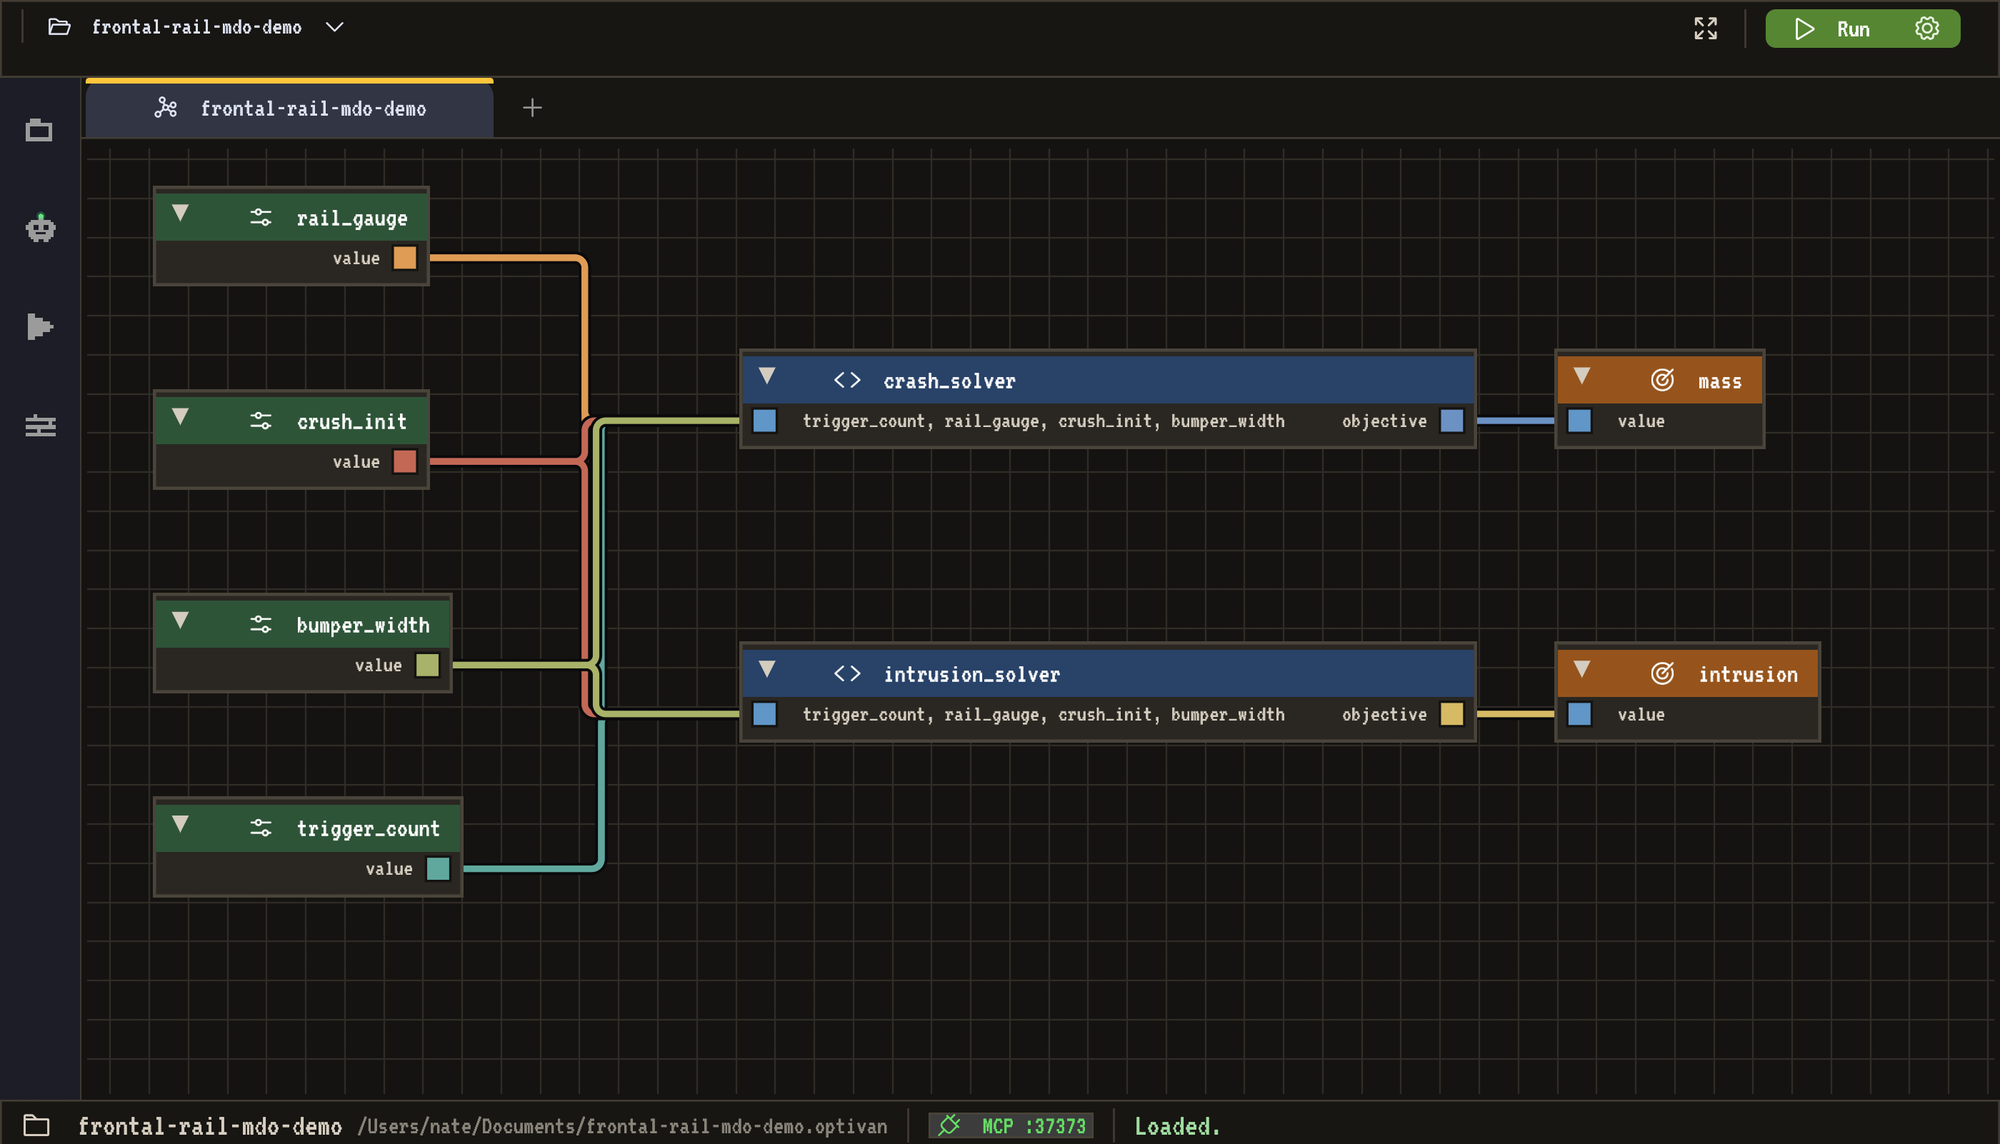
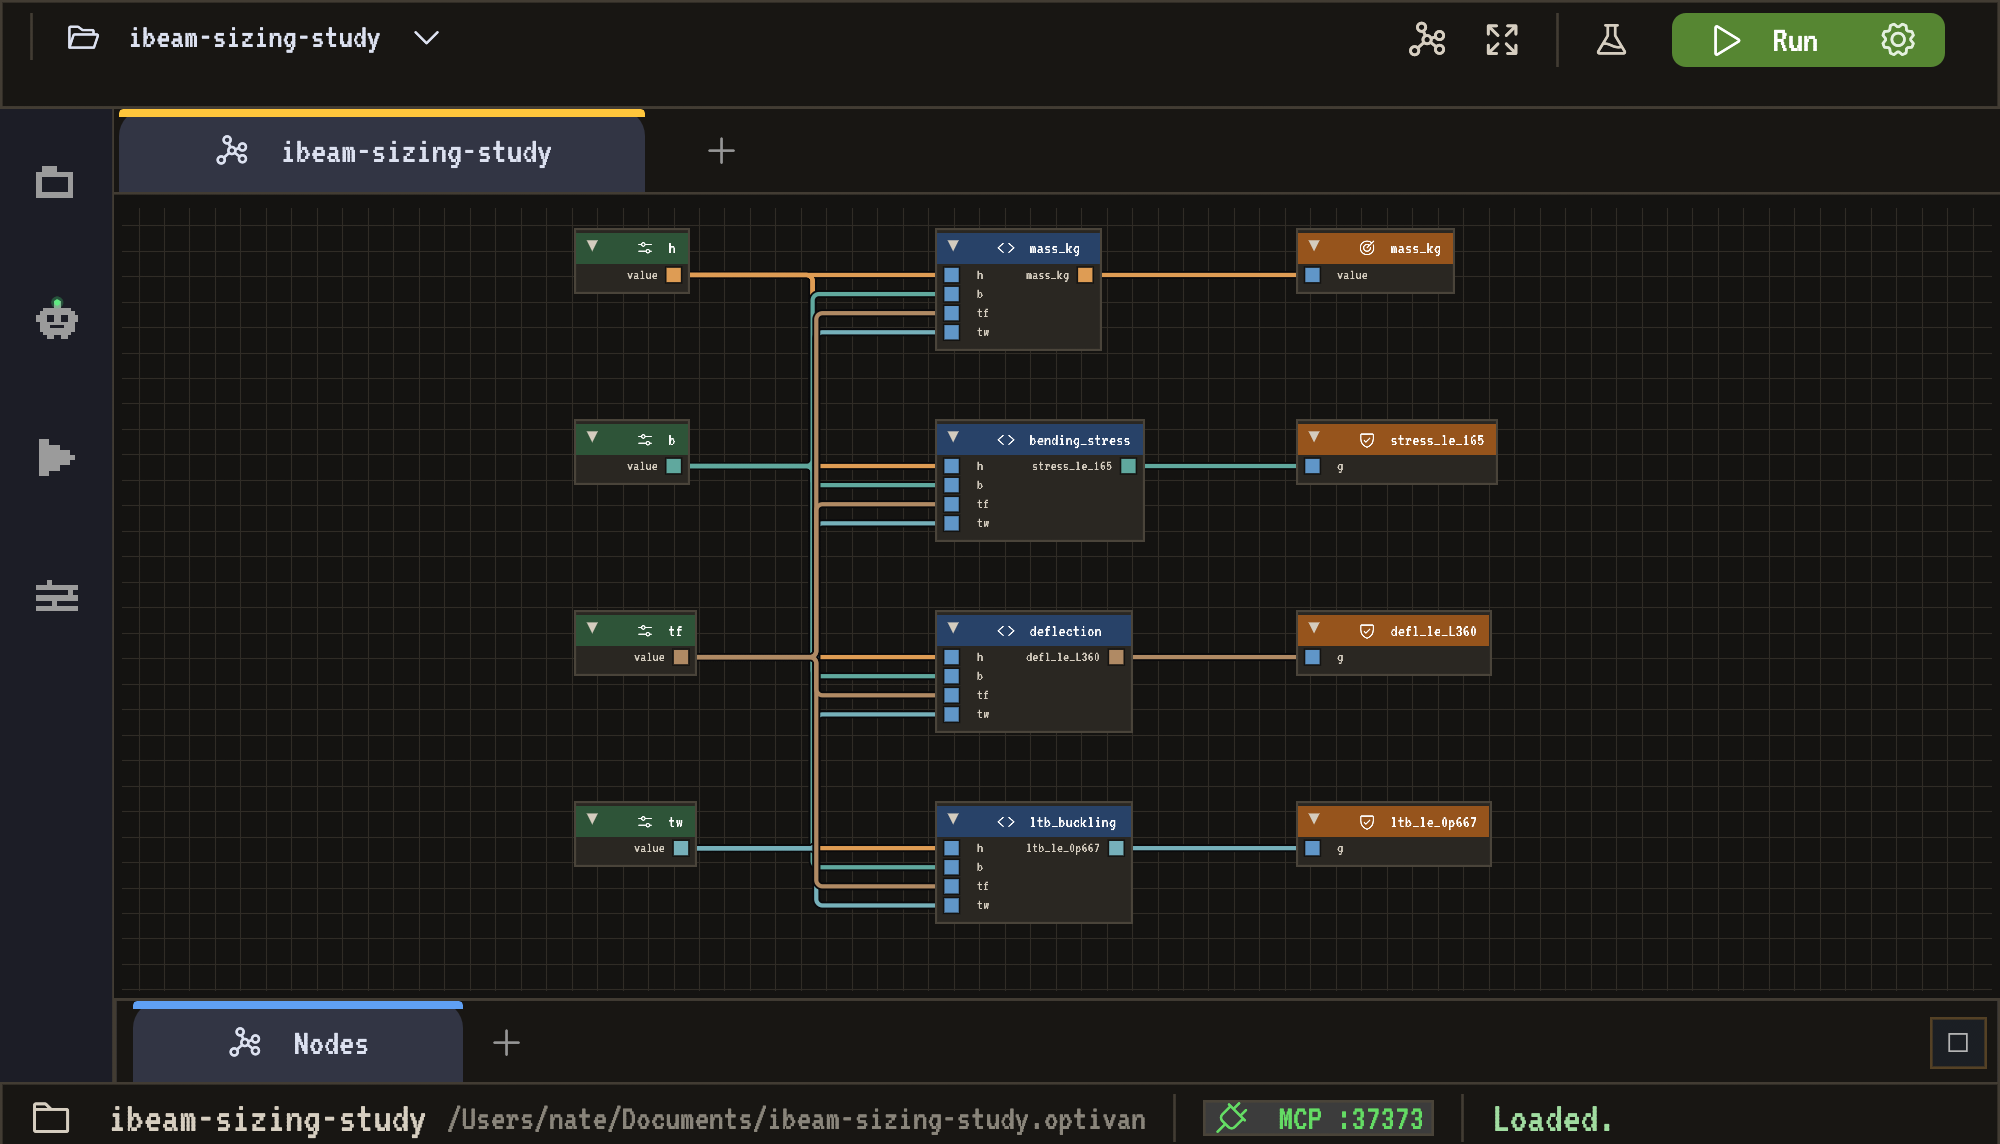
Deploy: fresh screenshots from the current build (I-beam sizing study)

diff --git a/index.html b/index.html
@@ -26,7 +26,7 @@
       href="https://fonts.googleapis.com/css2?family=JetBrains+Mono:wght@400;500;700&family=Space+Grotesk:wght@400;500;600;700&display=swap"
       rel="stylesheet"
     />
-    <script type="module" crossorigin src="./assets/index-A0nl7PWU.js"></script>
+    <script type="module" crossorigin src="./assets/index-CephTYbh.js"></script>
     <link rel="stylesheet" crossorigin href="./assets/index-BbJ57zOE.css">
   </head>
   <body>